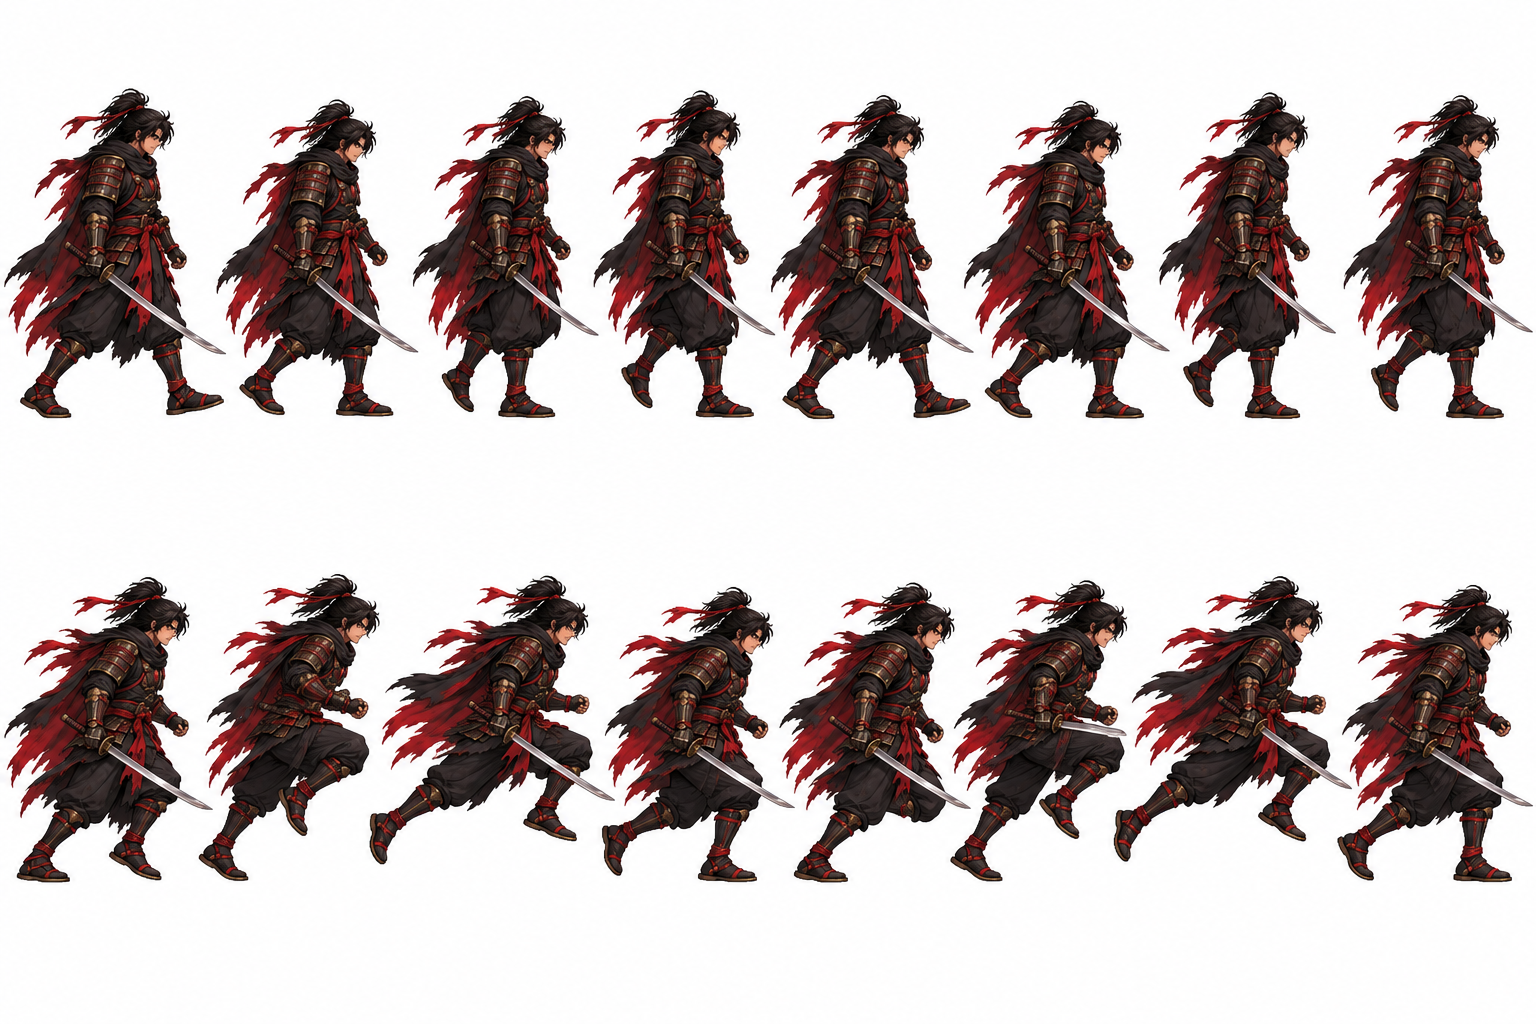
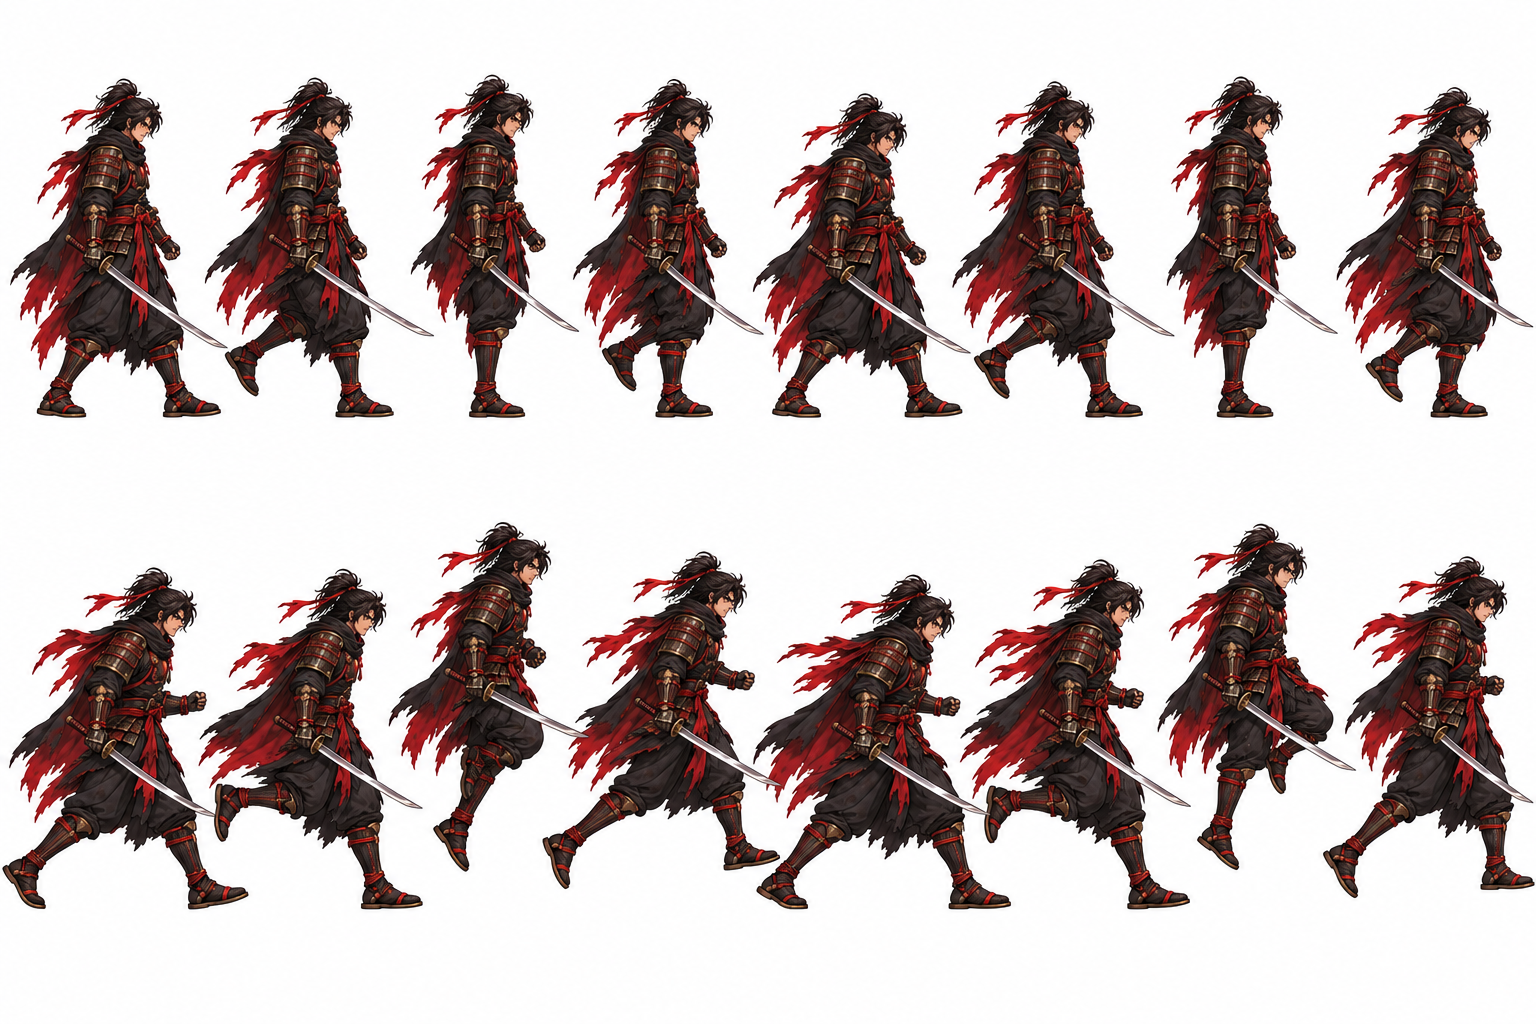
START HERO: the Samurai's real step cycle (walk + run from the stick-figure pose guide, his own colours and cape in every frame)
Claude-Session: https://claude.ai/code/session_01S4kDFHtMwUWSzAyaBY11TJ

diff --git a/tools/heroes/cut.py b/tools/heroes/cut.py
@@ -17,7 +17,7 @@ from scipy import ndimage
 # rows the game lifts itself (jumps, leaps): anchored on their own feet
 OWN_FEET = {'jump', 'leap_crash', 'judgment_blade', 'finisher', 'spin_cut', 'falcon_dive', 'retreat_kick', 'skyhunters_step', 'rain_of_arrows', 'air_shot'}
 # frames left out of a cut row (drawn upright inside a leaning run: the body would jump)
-DROP = {('samurai', 'run'): {0, 7}}
+DROP = {}
 STRIDES = {}  # (cls, act) -> feet spread per frame (atlas px)
 SCALE = 0.6  # frame size kept in the atlas (source px x SCALE)
 ROOT = os.path.dirname(os.path.dirname(os.path.dirname(os.path.abspath(__file__))))
